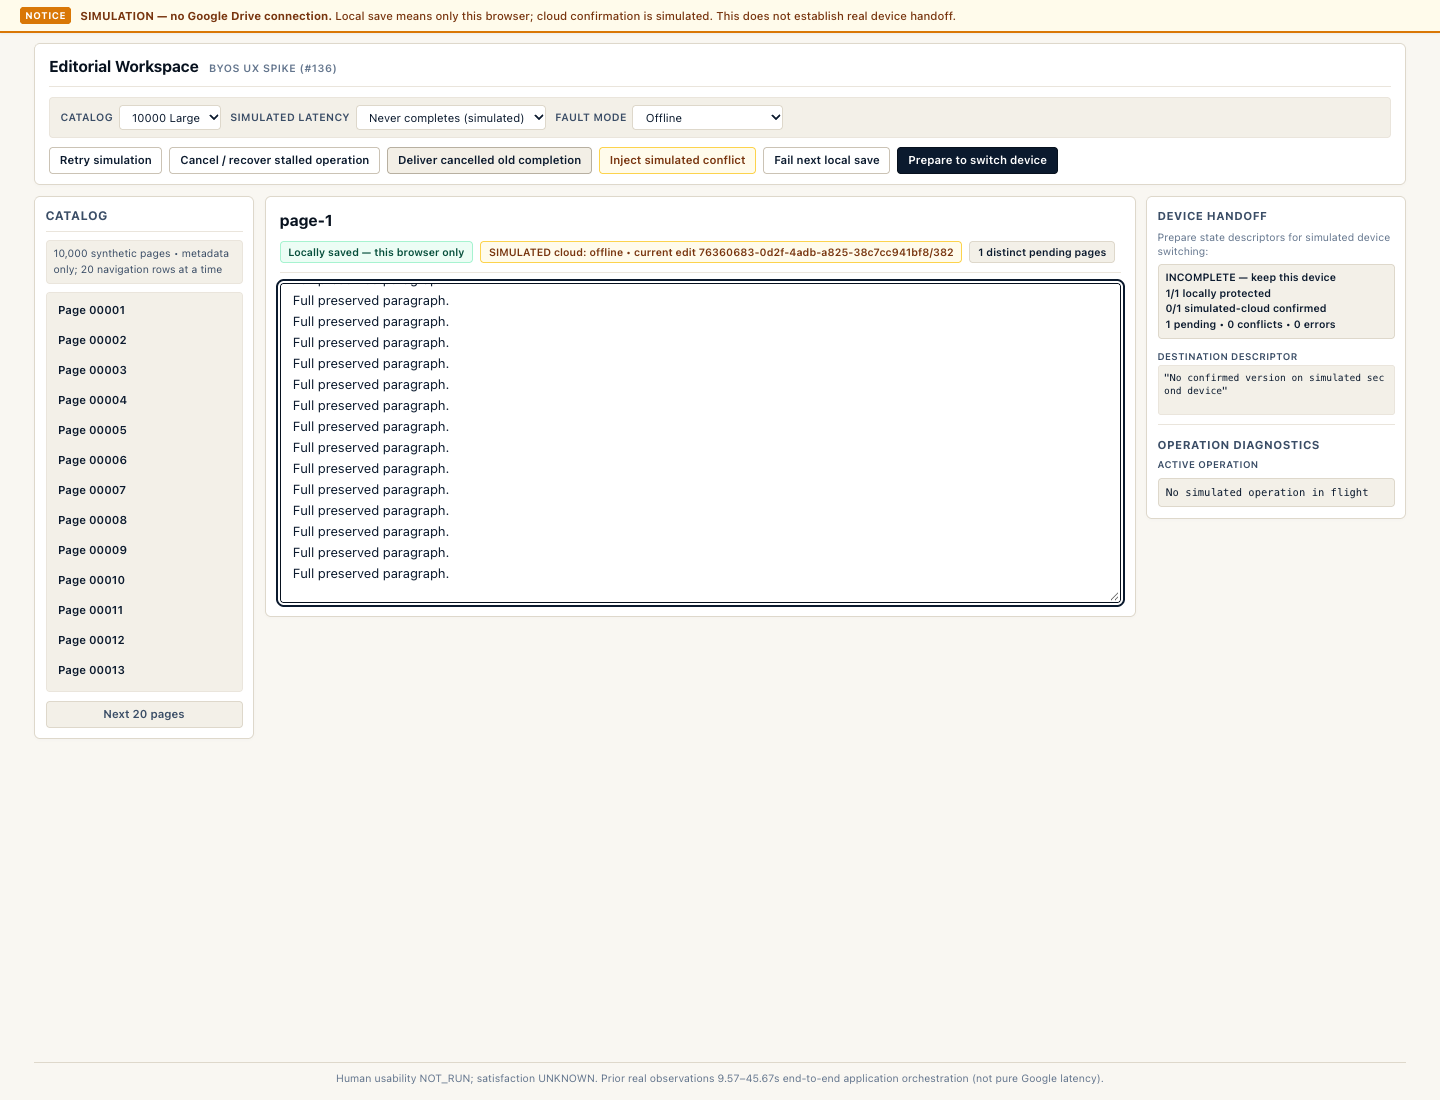
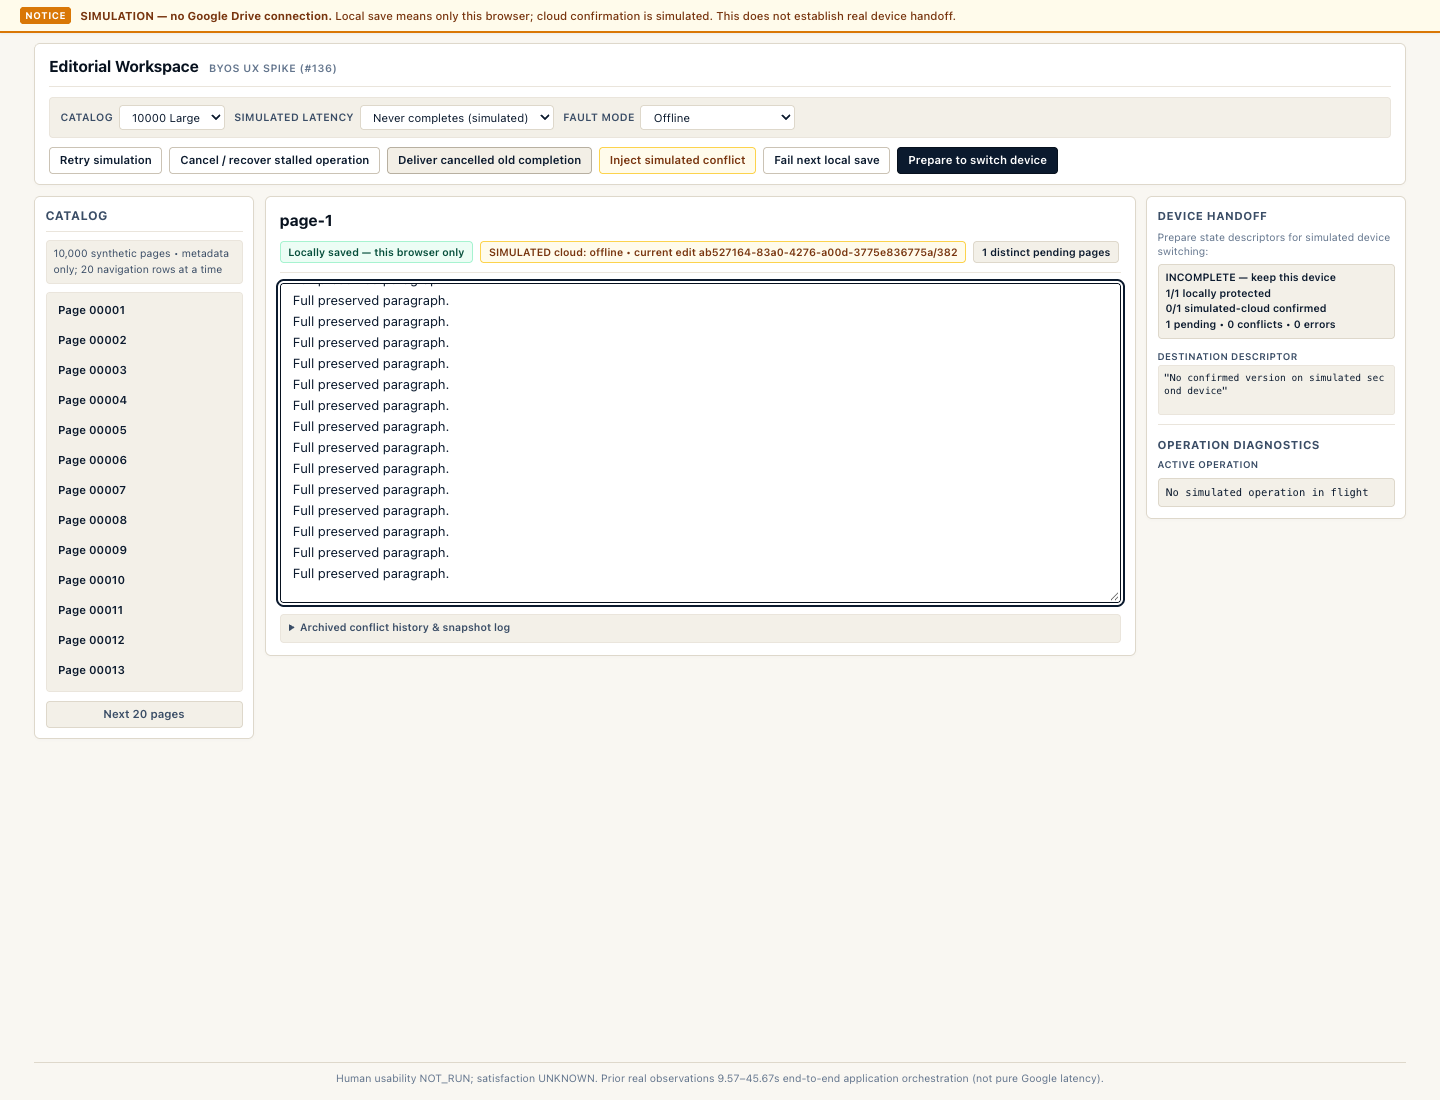
docs(byos-ux): bind final browser evidence and bounded decision packet

diff --git a/spikes/byos-ux/ACCEPTANCE.md b/spikes/byos-ux/ACCEPTANCE.md
@@ -1,6 +1,6 @@
 # Acceptance candidate — issue #136 frozen v1
 
-Engineering verdict PENDING checks/review. Human usability NOT_RUN; satisfaction UNKNOWN.
+Engineering source verdict **GO for bounded design evaluation**. Final draft verification requires the exact-head native-gate receipt on the PR/issue; source review alone is not gate completion. Human usability NOT_RUN; satisfaction UNKNOWN.
 No source is integrated or deployed by this draft deliverable. #102/#113 remain open.
 
 | Criterion | Current evidence |
@@ -11,8 +11,8 @@ No source is integrated or deployed by this draft deliverable. #102/#113 remain 
 | U4 | immutable edit identity; old receipt cannot confirm new edit; full conflict sources/history; cloud/local/merge tests |
 | U5 | explicit handoff, matching identity and full body; second-device view only confirmed content; new edit invalidation |
 | U6 | browser script records 20 × 4096-character fills/ACKs per size under identical never-completing operation; real clock |
-| U7 | deterministic.tap; browser.json/screenshots; independent review + native gate results to be finalized |
-| U8 | final decision, exact hashes/SHA and remaining risks to be finalized after review |
+| U7 | `evidence/deterministic.tap`: 15 PASS; `browser.json` + `focused-browser.json`: PASS with matching runtime hashes; screenshots; independent source review PASS at d975851. Final exact-head native gate receipt belongs to PR/issue acceptance comment. |
+| U8 | GO only for bounded design evaluation; `evidence/manifest.json` binds reviewed source SHA, all six runtime hashes, methods, limits and remaining acceptance. Human usability NOT_RUN / satisfaction UNKNOWN. |
 
 The fake-clock matrix runs both sizes, both 10s/45s ordinary edit/switch and older
 completion, fairness/inactive progress, handoff completion/re-edit; never-completing,
@@ -36,3 +36,9 @@ history; automation sample size is bounded and no target SLO was agreed.
 3. Inject conflict while typing; inspect complete bodies; Keep local or Merge
    manually. Expect no automatic text replacement. Prepare handoff, then edit again:
    handoff returns to incomplete. Report page, edit IDs, scenario and expected/actual.
+
+## Bounded observations and decision
+
+Final real-clock replay: small/large fill-to-ACK p50 16.7/16.3 ms, maxima 30.7/37.6 ms; 20 sequential 4096-character automation samples per catalog under one never-completing simulated operation. Initial precursor maxima were 343.8/189.9 ms (ce8a944); faster repeats do not erase these outliers or prove a product SLO. Final 10-second simulations observed 10.05–10.08 seconds; 45-second simulations 45.045–45.047 seconds. No external requests or browser page errors were observed. No pure Drive latency or human-comprehension claim follows.
+
+The candidate is useful for inspecting truthful states and intentional handoff. Product integration, background sync and real-provider feasibility remain HOLD for a separate scope decision; this spike creates no such authority. Smallest next step is the three Founder journeys above with the draft kept isolated. #102/#113 and Founder acceptance remain open.

diff --git a/spikes/byos-ux/evidence/review.md b/spikes/byos-ux/evidence/review.md
@@ -1,0 +1,19 @@
+# Independent read-only review
+
+Requested route: native separate reviewer, gpt-6.1-sol HIGH per V1 skill.
+Provider-observed model/effort and cost: UNKNOWN (not exposed by native tool).
+Reviewer executed no tests/operations and changed no files.
+
+Initial REQUEST_CHANGES at bf19590abbdaf28ff67d566a43da7655a8b79a34:
+P2 overlapping catalog initialization could release another initialization's writer
+lock and install stale state. Lead serialized initialization, awaited prior lock
+disposal and added delayed browser regression plus second-tab refusal.
+Nonblocking hidden conflict history presentation was also repaired.
+
+Re-review PASS at d975851e3a735f81ed781935b95b8c20a56da403:
+No remaining blocking source findings. Focused browser's six runtime hashes match
+inspected source; all three UI resolution paths recorded. Approval is for bounded
+prototype source; final evidence/native exact-head gate remain separately required.
+
+Final reviewer evidence refresh is recorded in the PR/issue acceptance receipt.
+This native review is not a GitHub branch-protection approval or human UX acceptance.

diff --git a/docs/sessions/20261026-tools136-byos-ux/task.md b/docs/sessions/20261026-tools136-byos-ux/task.md
@@ -21,3 +21,9 @@ catalog initialization and awaits prior lock disposal. Focused Chrome regression
 with delayed IndexedDB reads and four overlapping size switches; a second tab is
 correctly refused. All three UI resolutions expose archived complete originals;
 1280px layout has no horizontal overflow. Final full browser replay pending.
+Independent source re-review PASS at d975851 after race repair. Final full Chrome
+replay PASS; all six runtime hashes match focused evidence and current files.
+Final 20-sample p50 small/large 16.7/16.3ms, max 30.7/37.6ms. 10s simulations
+10.05–10.08s; 45s 45.045–45.047s. Earlier outliers remain disclosed in manifest.
+Decision: bounded engineering GO after exact-head submission gate; human NOT_RUN,
+satisfaction UNKNOWN, production/integration not authorized. Draft submission pending.

diff --git a/spikes/byos-ux/README.md b/spikes/byos-ux/README.md
@@ -46,6 +46,7 @@ Verification:
 - `npm run test:byos-ux:browser`: installed Chrome, actual IndexedDB, process close /
   reopen, real 10s/45s timers, bounded typing observations, screenshots; no external
   requests allowed. Requires root `npm ci` and local browser execution permission.
+- `npm run test:byos-ux:focused`: delayed overlapping catalog initialization, single-writer refusal, all three browser conflict choices and archive visibility.
 - `bash scripts/gatekeeper.sh`: native owning repository checks; never runs live Drive.
 
 See `evidence/` and `ACCEPTANCE.md` for exact outcomes, limitations and revision.
